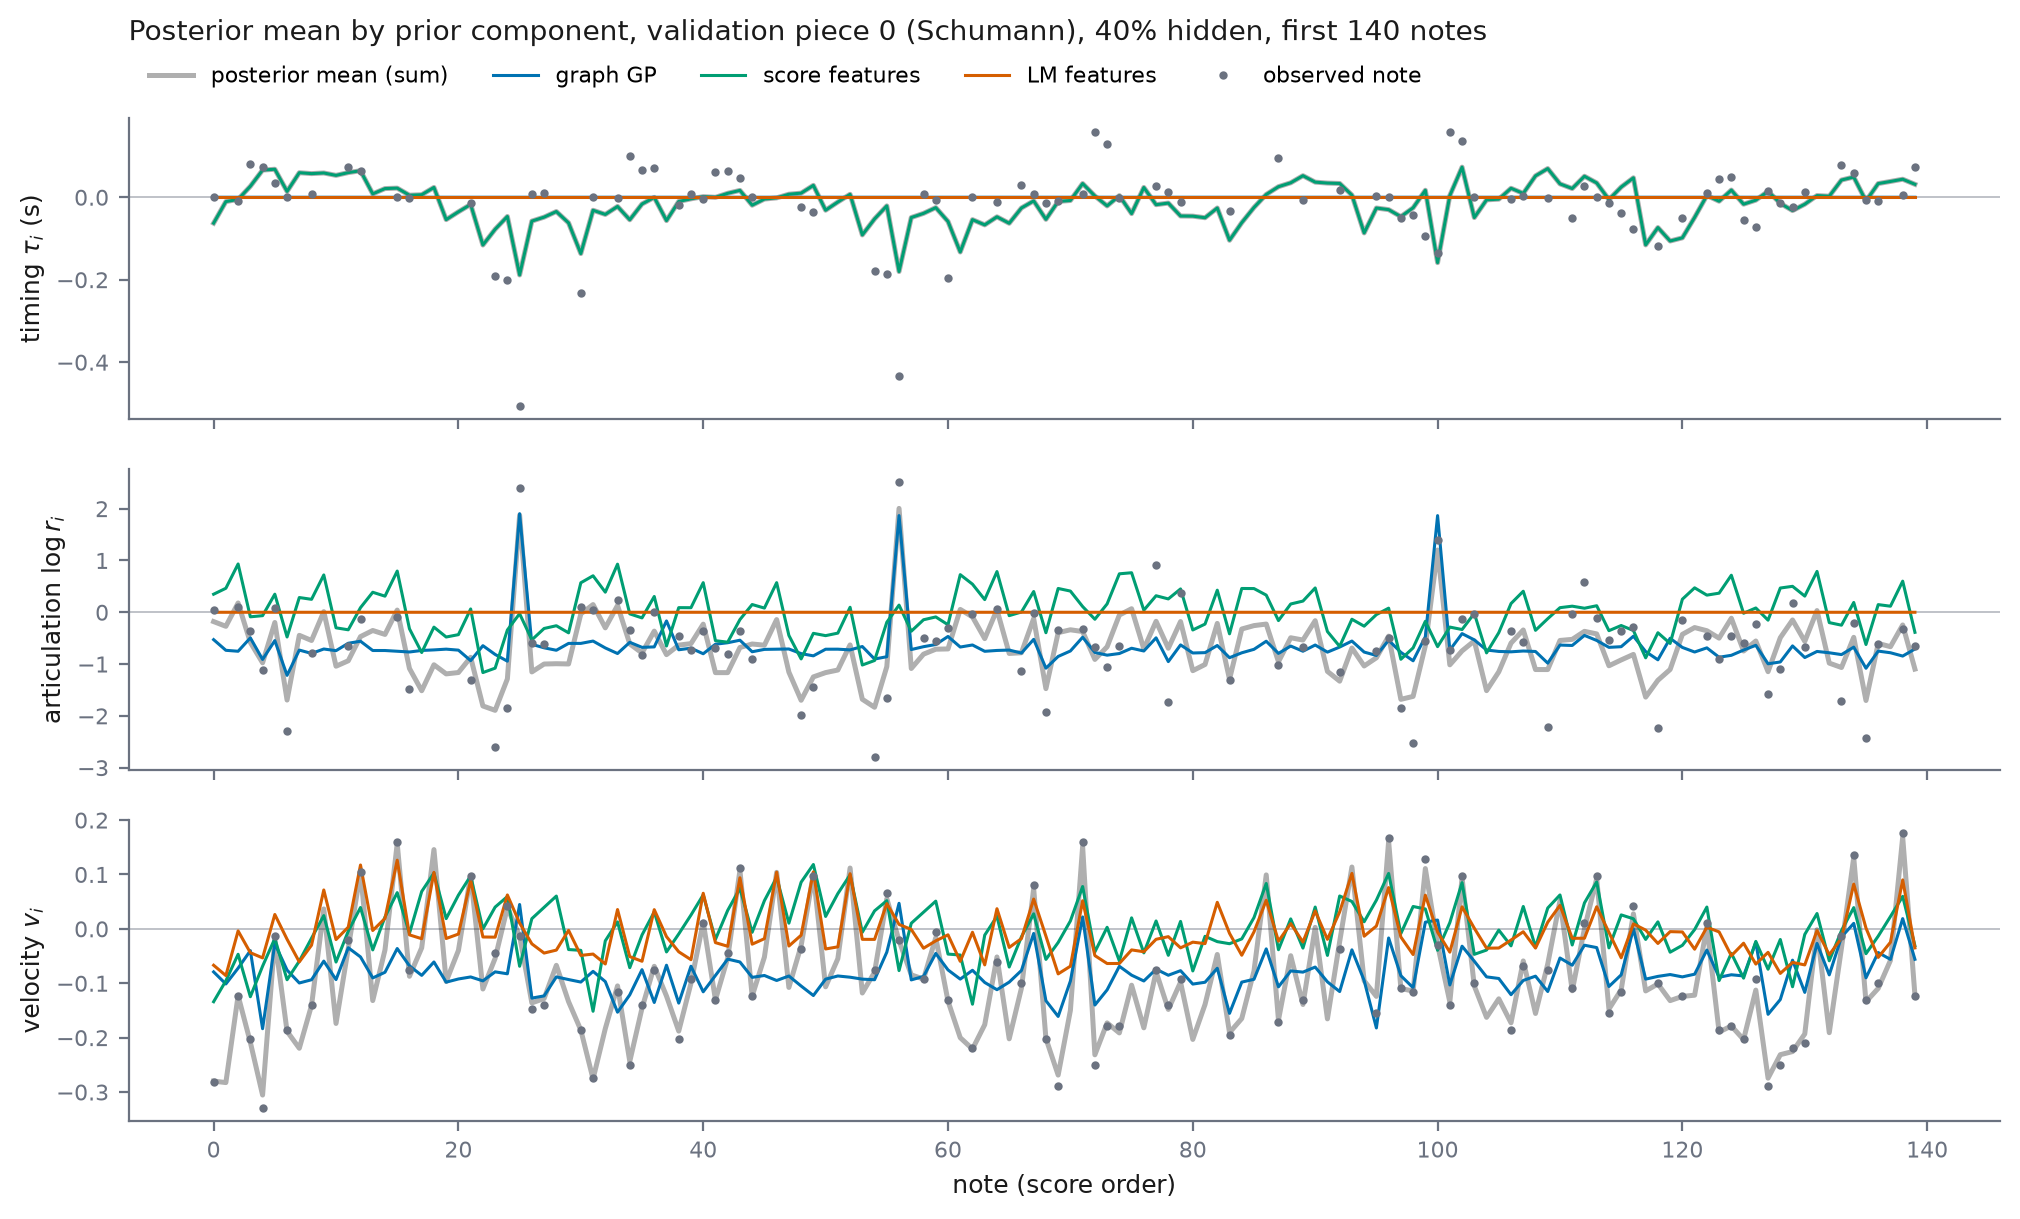
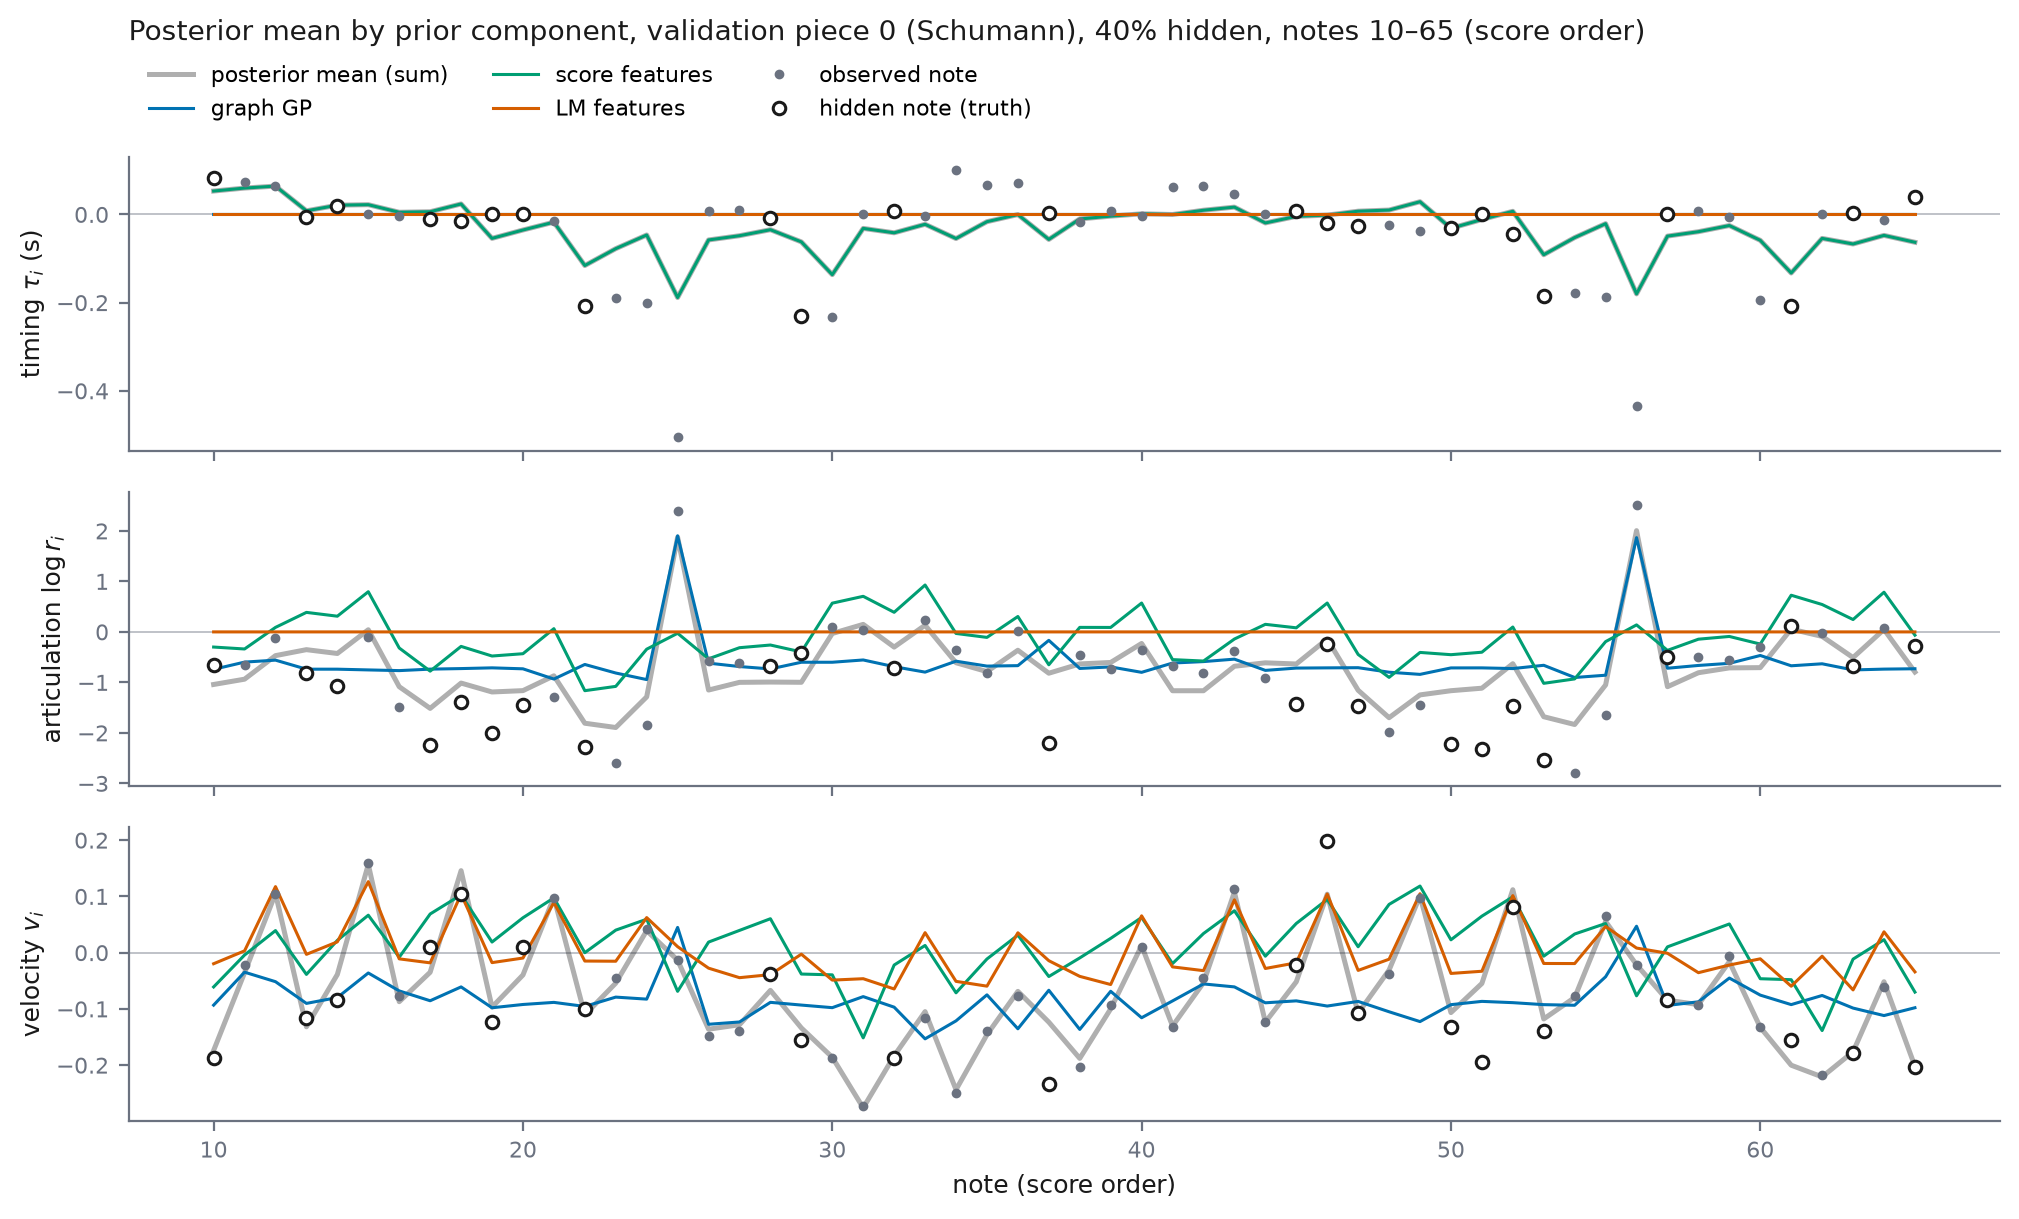
Decomposition figure: zoomed section snapshot with hidden-note truths
Replace the 140-note overview with a 56-note section (notes 10-65, spanning
the piece's two large articulation events), add the hidden notes' true
values as open circles, and put true score positions on the x axis. Caption
now reads the division of labour note by note.

Claude-Session: https://claude.ai/code/session_01TXsRQ8BLcWaBZSFFBbasuX

diff --git a/scripts/make_posterior_components.py b/scripts/make_posterior_components.py
@@ -35,7 +35,9 @@ import matplotlib.pyplot as plt  # noqa: E402
 OUT_FIG = "docs/thesis/figures/posterior_components_dev.png"
 OUT_TAB = "results/posterior_components_dev.md"
 PIECE, SEED = 0, 0
-WINDOW = slice(0, 140)
+# snapshot window (score order): a short section spanning the piece's two
+# large articulation events, so per-note component behaviour is legible
+WINDOW = slice(10, 66)
 INK, MUTED = "#1A1A1A", "#6B7280"
 BLUE, VERM, GREEN = "#0072B2", "#D55E00", "#009E73"
 NAMES = [r"timing $\tau_i$ (s)", r"articulation $\log r_i$", r"velocity $v_i$"]
@@ -89,7 +91,7 @@ def main() -> None:
     Y, comps = fit_components(p, mask, embs[(PIECE, SEED)])
     order = np.argsort(np.asarray(p["onset"], dtype=float), kind="stable")
     idx = order[WINDOW]
-    xs = np.arange(len(idx))
+    xs = np.arange(WINDOW.start, WINDOW.start + len(idx))
     fig, axes = plt.subplots(3, 1, figsize=(10.2, 6.2), dpi=200, sharex=True)
     for c, ax in enumerate(axes):
         obs = mask[idx]
@@ -99,20 +101,24 @@ def main() -> None:
                 label="posterior mean (sum)")
         for key, label, color in COMPS:
             ax.plot(xs, comps[key][idx, c], color=color, lw=1.1, label=label)
-        ax.plot(xs[obs], Y[idx, c][obs], ".", color=MUTED, ms=4,
+        ax.plot(xs[obs], Y[idx, c][obs], ".", color=MUTED, ms=5,
                 label="observed note")
+        ax.plot(xs[~obs], Y[idx, c][~obs], "o", color=INK, ms=4.5,
+                markerfacecolor="white", markeredgewidth=1.1,
+                label="hidden note (truth)")
         ax.set_ylabel(NAMES[c], fontsize=9, color=INK)
         for side in ("top", "right"):
             ax.spines[side].set_visible(False)
         for side in ("left", "bottom"):
             ax.spines[side].set_color(MUTED)
         ax.tick_params(colors=MUTED, labelsize=8)
-    axes[0].legend(frameon=False, fontsize=8, ncol=5, loc="upper left",
-                   bbox_to_anchor=(0.0, 1.24))
+    axes[0].legend(frameon=False, fontsize=8, ncol=3, loc="upper left",
+                   bbox_to_anchor=(0.0, 1.38))
     axes[0].set_title(
         f"Posterior mean by prior component, validation piece {PIECE} "
-        f"({p.get('composer', '?')}), 40% hidden, first {len(idx)} notes",
-        fontsize=10, color=INK, loc="left", pad=28)
+        f"({p.get('composer', '?')}), 40% hidden, "
+        f"notes {WINDOW.start}–{WINDOW.stop - 1} (score order)",
+        fontsize=10, color=INK, loc="left", pad=42)
     axes[-1].set_xlabel("note (score order)", fontsize=9, color=INK)
     fig.tight_layout()
     os.makedirs(os.path.dirname(OUT_FIG), exist_ok=True)

diff --git a/docs/thesis/draft.tex b/docs/thesis/draft.tex
@@ -1315,14 +1315,17 @@ model's own attribution under its learned scales, not causal claims.
 Figure~\ref{fig:posterior-components} shows one development piece's posterior
 mean split into its component curves.
 
-\figph{posterior_components_dev.png}{1.0}{The posterior mean of
-\eqref{eq:posterior} split exactly by prior component \eqref{eq:decomp} on one
-development piece (40\% hidden, anchor mask): coupled graph GP, score-feature
-kernel, and music-model-embedding kernel sum to the grey total. The embedding
-component is nearly flat on timing and articulation here and active on
-loudness; the graph component carries the articulation level and its local
-excursions; the score features carry most of the timing
-mean.\label{fig:posterior-components}}
+\figph{posterior_components_dev.png}{1.0}{Snapshot of one section of a
+development piece (notes 10--65 in score order, 40\% hidden, anchor mask):
+the posterior mean of \eqref{eq:posterior} split exactly by prior component
+\eqref{eq:decomp} --- coupled graph GP, score-feature kernel, and
+music-model-embedding kernel sum to the grey total; open circles are the
+hidden notes' true values. The division of labour is legible note by note:
+on loudness the embedding component tracks the note-to-note alternation while
+the score features carry the phrase shape; the two large articulation events
+are carried almost entirely by the graph component, propagated from observed
+extreme neighbours; timing rests on the score features, with the embedding
+component nearly flat outside loudness.\label{fig:posterior-components}}
 
 \section{Per-channel breakdown: where the graph earns its keep}\label{sec:perchannel}
 The pooled headline (Table~\ref{tab:headline-exec}) averages three normalised
